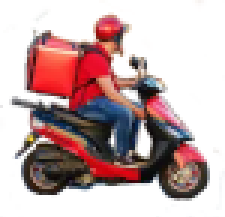
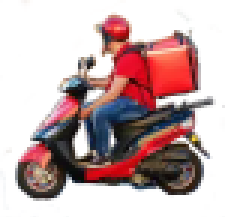
imma idiot

diff --git a/data/occupations.js b/data/occupations.js
@@ -4,6 +4,7 @@ const doctor = {
     title: 'Doctor',
     health: 100,
     wealth: 100,
+    workPic: 'drOffice.png',
 };
 
 const skater = {
@@ -12,6 +13,7 @@ const skater = {
     title: 'Skater',
     health: 100,
     wealth: 100,
+    workPic: 'skateWork.png',
 };
 
 const barista = {
@@ -20,6 +22,8 @@ const barista = {
     title: 'Barista',
     health: 100,
     wealth: 100,
+    workPic: 'baristaWork.png',
+
 };
 
 const deliveryDriver = {
@@ -28,6 +32,7 @@ const deliveryDriver = {
     title: 'Delivery driver',
     health: 100,
     wealth: 100,
+    workPic: 'deliveryWork.png',
 };
 
 const mom = {
@@ -36,6 +41,7 @@ const mom = {
     title: 'Mom',
     health: 100,
     wealth: 100,
+    workPic: 'momWork.png',
 };
 
 const protestor = {
@@ -44,6 +50,7 @@ const protestor = {
     title: 'Protestor',
     health: 100,
     wealth: 100,
+    workPic: 'protesterWork.png',
 };
 
 const greg = {
@@ -52,6 +59,7 @@ const greg = {
     title: 'Software Engineer',
     health: 100,
     wealth: 1000000,
+    workPic: 'engineerWork.png',
 };
 
 export default [
